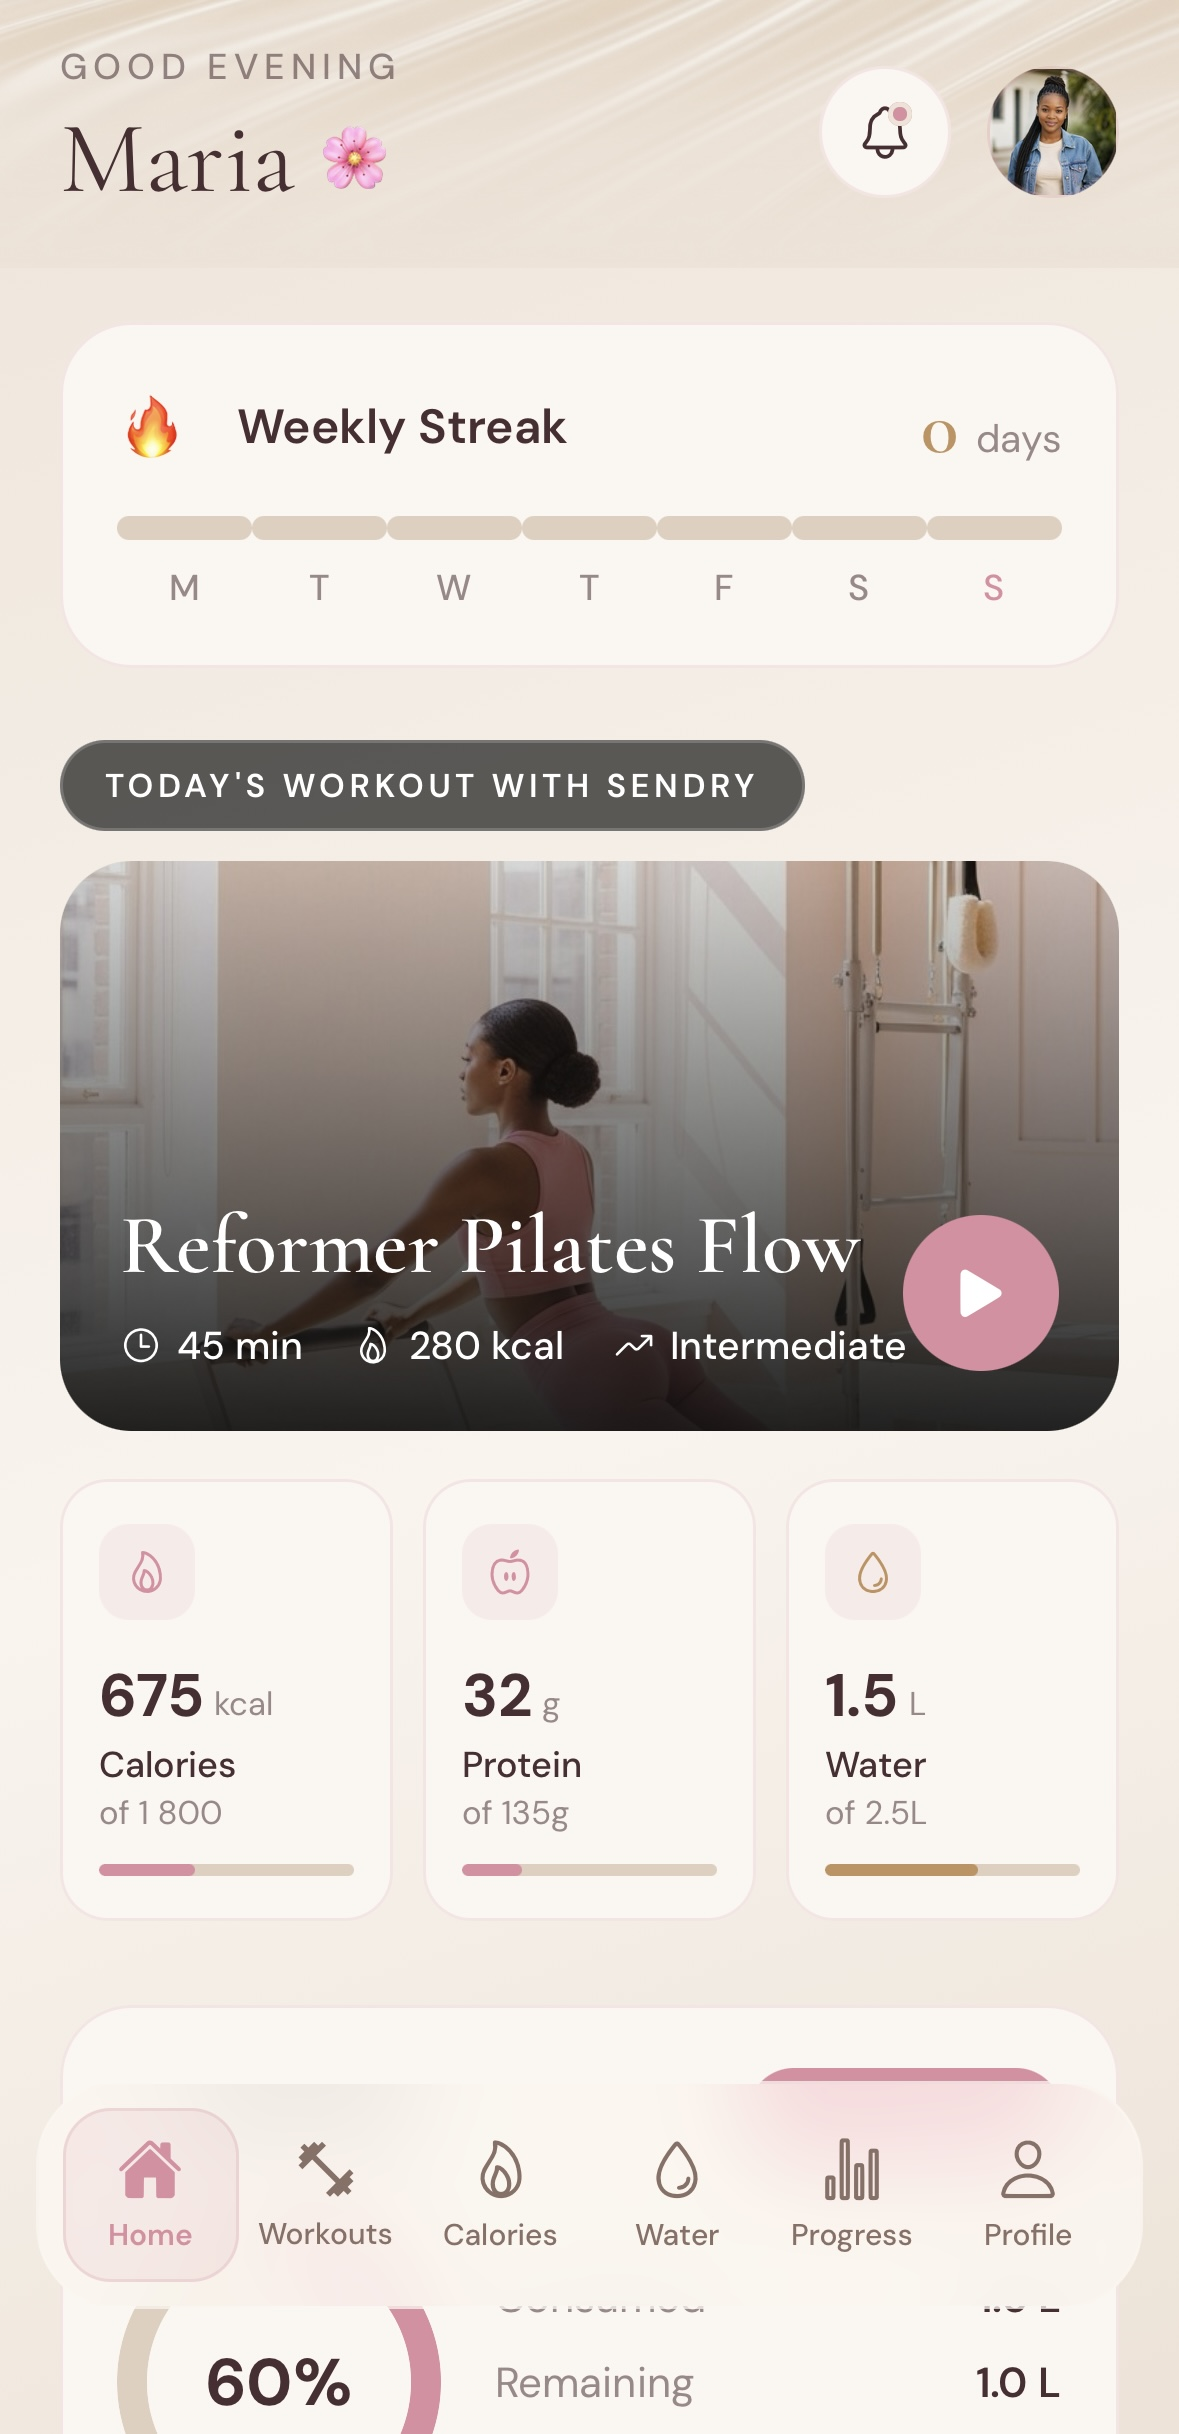
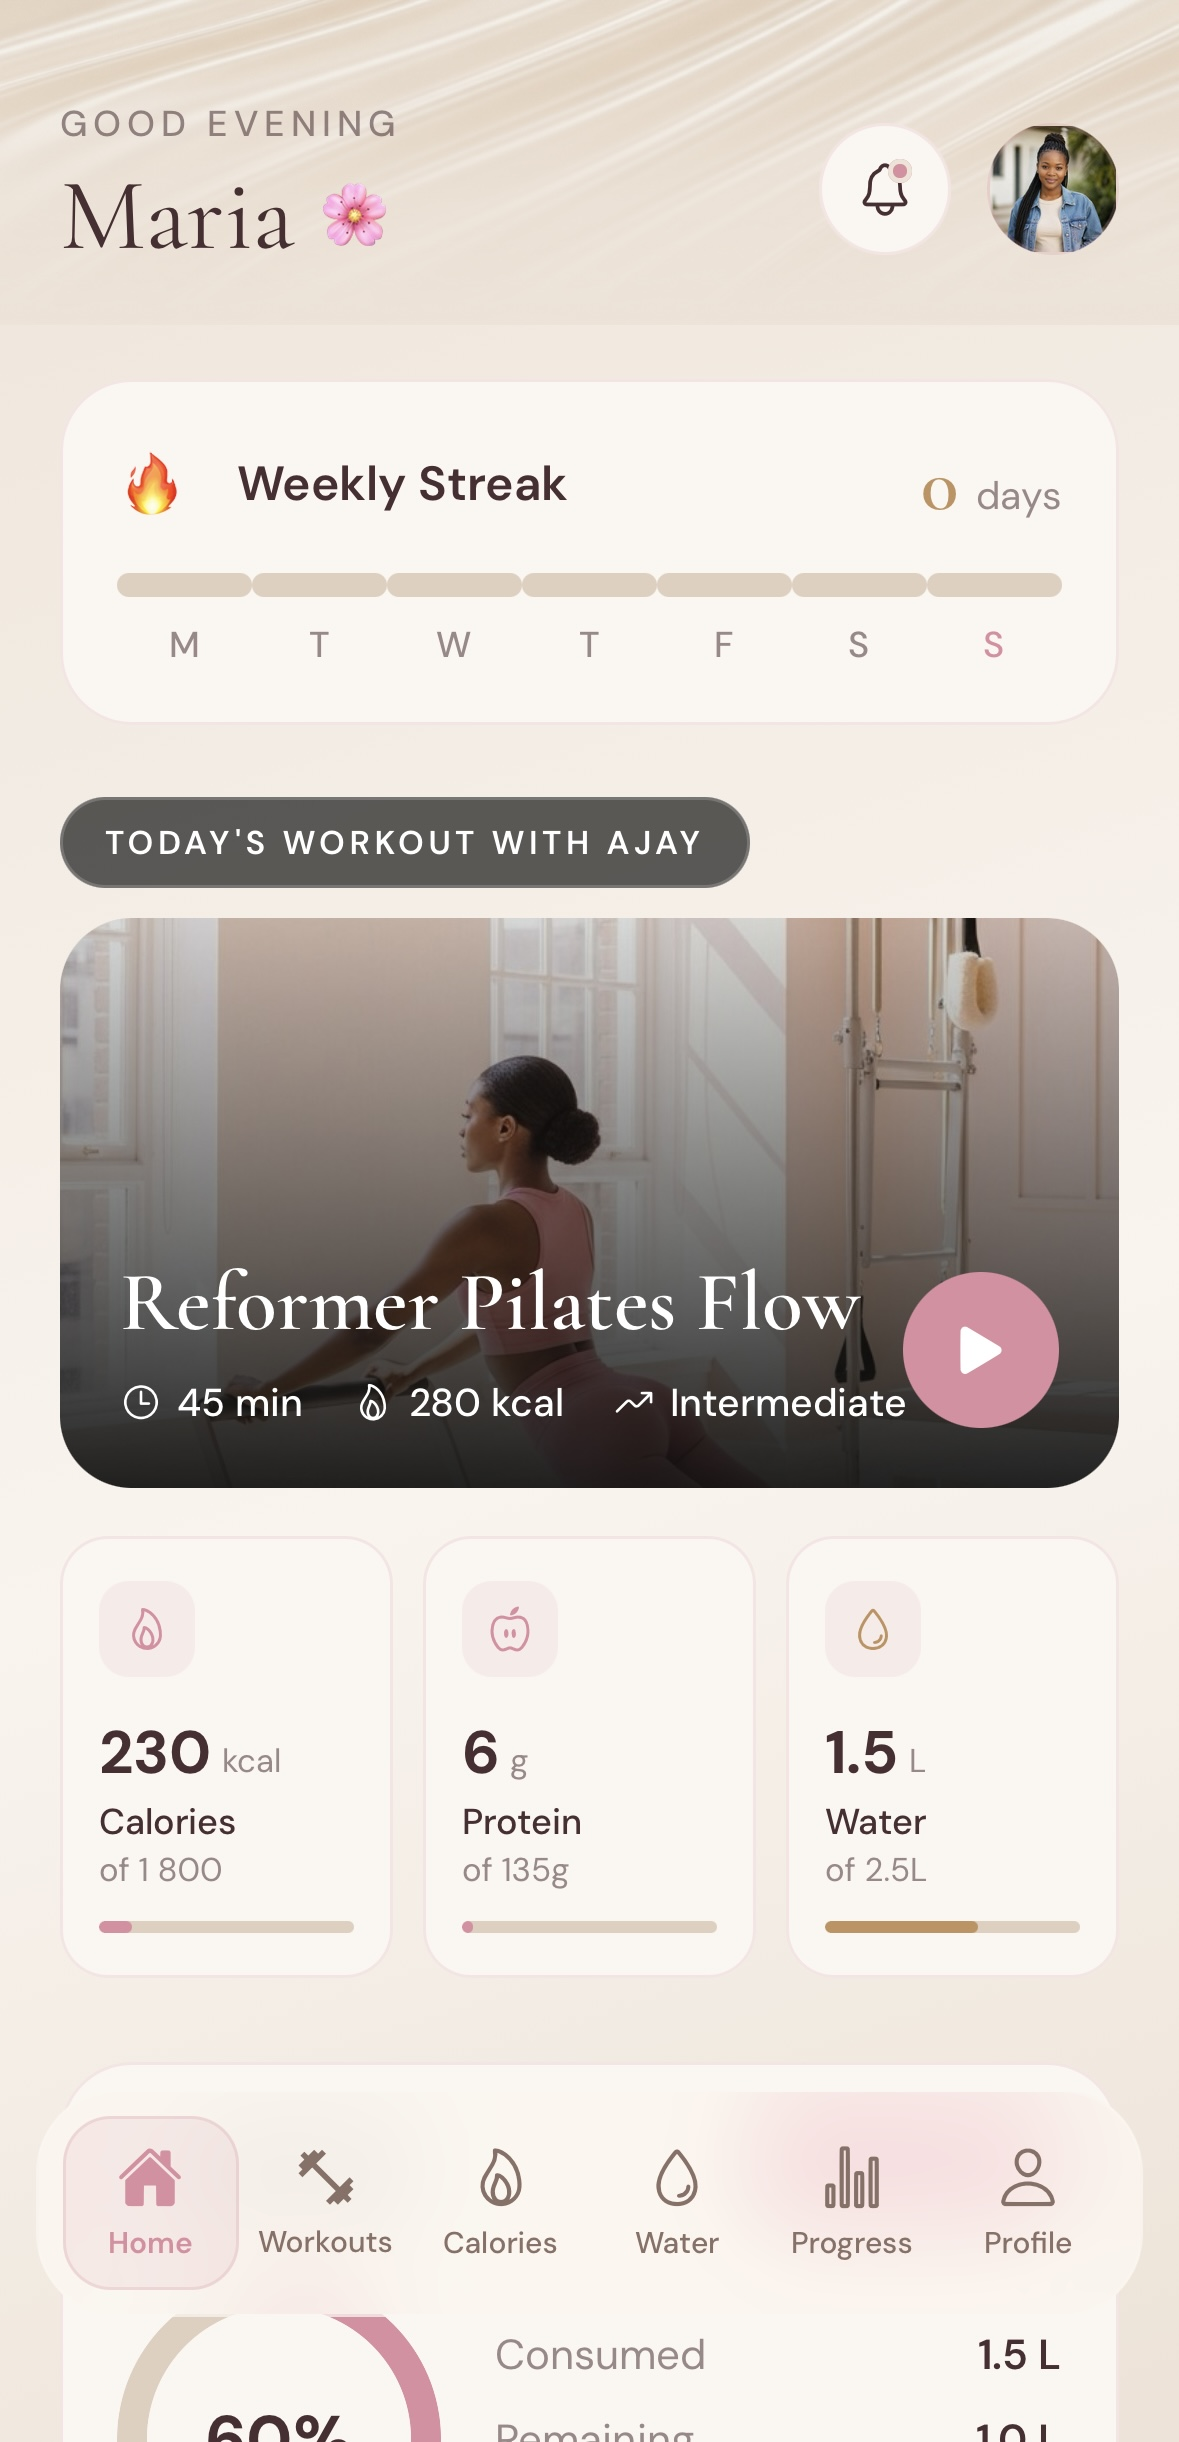
Update follower counts and financial projections in pitch deck
Corrected follower counts from 269K to 336K in `pitch/index.html` and updated the associated financial projections. Also updated image assets `pitch/assets/home.png` and `pitch/assets/welcome.png`, and their corresponding PDF representations.

Replit-Commit-Author: Agent
Replit-Commit-Session-Id: 5a952a59-3208-42f4-974a-461b75984d65
Replit-Commit-Checkpoint-Type: full_checkpoint
Replit-Commit-Event-Id: bbeb4222-c790-46b1-98c4-0388afad4259
Replit-Commit-Screenshot-Url: https://storage.googleapis.com/screenshot-production-us-central1/511858dc-4453-49e0-9028-2b93cd0060fb/5a952a59-3208-42f4-974a-461b75984d65/MkRuzfT
Replit-Helium-Checkpoint-Created: true

diff --git a/pitch/index.html b/pitch/index.html
@@ -279,7 +279,7 @@
     <div class="pad row" style="gap:56px;">
       <div class="col" style="justify-content:center; width:430px;">
         <div class="eyebrow">Why you</div>
-        <h1 class="display" style="margin-top:16px;"><span class="stat-num" style="font-size:128px; color:var(--rose-deep);">269K</span></h1>
+        <h1 class="display" style="margin-top:16px;"><span class="stat-num" style="font-size:128px; color:var(--rose-deep);">336K</span></h1>
         <div style="font-weight:700; font-size:20px; margin-top:6px;">engaged followers, and counting.</div>
         <p class="lead" style="margin-top:18px;">
           A multi-country audience in the exact niche this app serves. That reach
@@ -333,26 +333,26 @@
   <section class="slide">
     <div class="pad">
       <div class="eyebrow">The opportunity, in numbers</div>
-      <h1 class="h-lg" style="margin-top:10px; font-size:44px; line-height:1.15;">If just <em>1%</em> of your 269,000 audience subscribes at $4.99 (N$85) per month.</h1>
+      <h1 class="h-lg" style="margin-top:10px; font-size:44px; line-height:1.15;">If just <em>1%</em> of your 336,000 audience subscribes at $4.99 (N$85) per month.</h1>
 
       <div class="row" style="gap:26px; margin-top:22px;">
-        <div class="card col center" style="padding:24px 20px; flex:1;"><div class="stat-num" style="font-size:46px; color:var(--ink);">2,690</div><div class="small" style="margin-top:4px;">subscribers</div></div>
-        <div class="card col center" style="padding:24px 20px; flex:1;"><div class="stat-num" style="font-size:46px; color:var(--ink);">$13,423</div><div class="small" style="margin-top:4px;">gross / month (N$228,191)</div></div>
-        <div class="card col center" style="padding:24px 20px; flex:1; background:rgba(221,141,160,0.12); border-color:rgba(221,141,160,0.3);"><div class="stat-num" style="font-size:46px; color:var(--rose-deep);">$5,369</div><div class="small" style="margin-top:4px;">your 40% / month</div></div>
-        <div class="card col center" style="padding:24px 20px; flex:1; background:rgba(221,141,160,0.12); border-color:rgba(221,141,160,0.3);"><div class="stat-num" style="font-size:46px; color:var(--rose-deep);">N$91,277</div><div class="small" style="margin-top:4px;">your 40% / month</div></div>
+        <div class="card col center" style="padding:24px 20px; flex:1;"><div class="stat-num" style="font-size:46px; color:var(--ink);">3,360</div><div class="small" style="margin-top:4px;">subscribers</div></div>
+        <div class="card col center" style="padding:24px 20px; flex:1;"><div class="stat-num" style="font-size:46px; color:var(--ink);">$16,766</div><div class="small" style="margin-top:4px;">gross / month (N$285,029)</div></div>
+        <div class="card col center" style="padding:24px 20px; flex:1; background:rgba(221,141,160,0.12); border-color:rgba(221,141,160,0.3);"><div class="stat-num" style="font-size:46px; color:var(--rose-deep);">$6,707</div><div class="small" style="margin-top:4px;">your 40% / month</div></div>
+        <div class="card col center" style="padding:24px 20px; flex:1; background:rgba(221,141,160,0.12); border-color:rgba(221,141,160,0.3);"><div class="stat-num" style="font-size:46px; color:var(--rose-deep);">N$114,012</div><div class="small" style="margin-top:4px;">your 40% / month</div></div>
       </div>
 
       <table class="scn" style="margin-top:22px;">
         <thead><tr><th>Conversion</th><th>Subscribers</th><th>Gross / month</th><th>Your 40% (USD)</th><th></th><th>Your 40% (N$)</th></tr></thead>
         <tbody>
-          <tr><td>0.5%</td><td class="num">1,345</td><td class="num">$6,712 (N$114,104)</td><td class="num">$2,685</td><td class="num" style="text-align:center; width:24px; padding-left:4px; padding-right:4px;">=</td><td class="num">N$45,639</td></tr>
-          <tr class="hot"><td>1% (shown above)</td><td class="num">2,690</td><td class="num">$13,423 (N$228,191)</td><td class="num">$5,369</td><td class="num" style="text-align:center; width:24px; padding-left:4px; padding-right:4px;">=</td><td class="num">N$91,277</td></tr>
-          <tr><td>2%</td><td class="num">5,380</td><td class="num">$26,846 (N$456,382)</td><td class="num">$10,738</td><td class="num" style="text-align:center; width:24px; padding-left:4px; padding-right:4px;">=</td><td class="num">N$182,554</td></tr>
-          <tr><td>5%</td><td class="num">13,450</td><td class="num">$67,116 (N$1,140,972)</td><td class="num">$26,846</td><td class="num" style="text-align:center; width:24px; padding-left:4px; padding-right:4px;">=</td><td class="num">N$456,385</td></tr>
+          <tr><td>0.5%</td><td class="num">1,680</td><td class="num">$8,383 (N$142,514)</td><td class="num">$3,353</td><td class="num" style="text-align:center; width:24px; padding-left:4px; padding-right:4px;">=</td><td class="num">N$57,006</td></tr>
+          <tr class="hot"><td>1% (shown above)</td><td class="num">3,360</td><td class="num">$16,766 (N$285,029)</td><td class="num">$6,707</td><td class="num" style="text-align:center; width:24px; padding-left:4px; padding-right:4px;">=</td><td class="num">N$114,012</td></tr>
+          <tr><td>2%</td><td class="num">6,720</td><td class="num">$33,533 (N$570,058)</td><td class="num">$13,413</td><td class="num" style="text-align:center; width:24px; padding-left:4px; padding-right:4px;">=</td><td class="num">N$228,023</td></tr>
+          <tr><td>5%</td><td class="num">16,800</td><td class="num">$83,832 (N$1,425,144)</td><td class="num">$33,533</td><td class="num" style="text-align:center; width:24px; padding-left:4px; padding-right:4px;">=</td><td class="num">N$570,058</td></tr>
         </tbody>
       </table>
       <p class="small" style="margin-top:14px; max-width:1000px;">
-        Illustrative figures based on 269,000 followers, $4.99 (N$85) per month, and about N$17 per US dollar.
+        Illustrative figures based on 336,000 followers, $4.99 (N$85) per month, and about N$17 per US dollar.
         App store fees of roughly 15 to 30 percent and running costs apply, so real take-home is lower.
         These ranges are meant to show the shape of the opportunity, not a guarantee.
       </p>